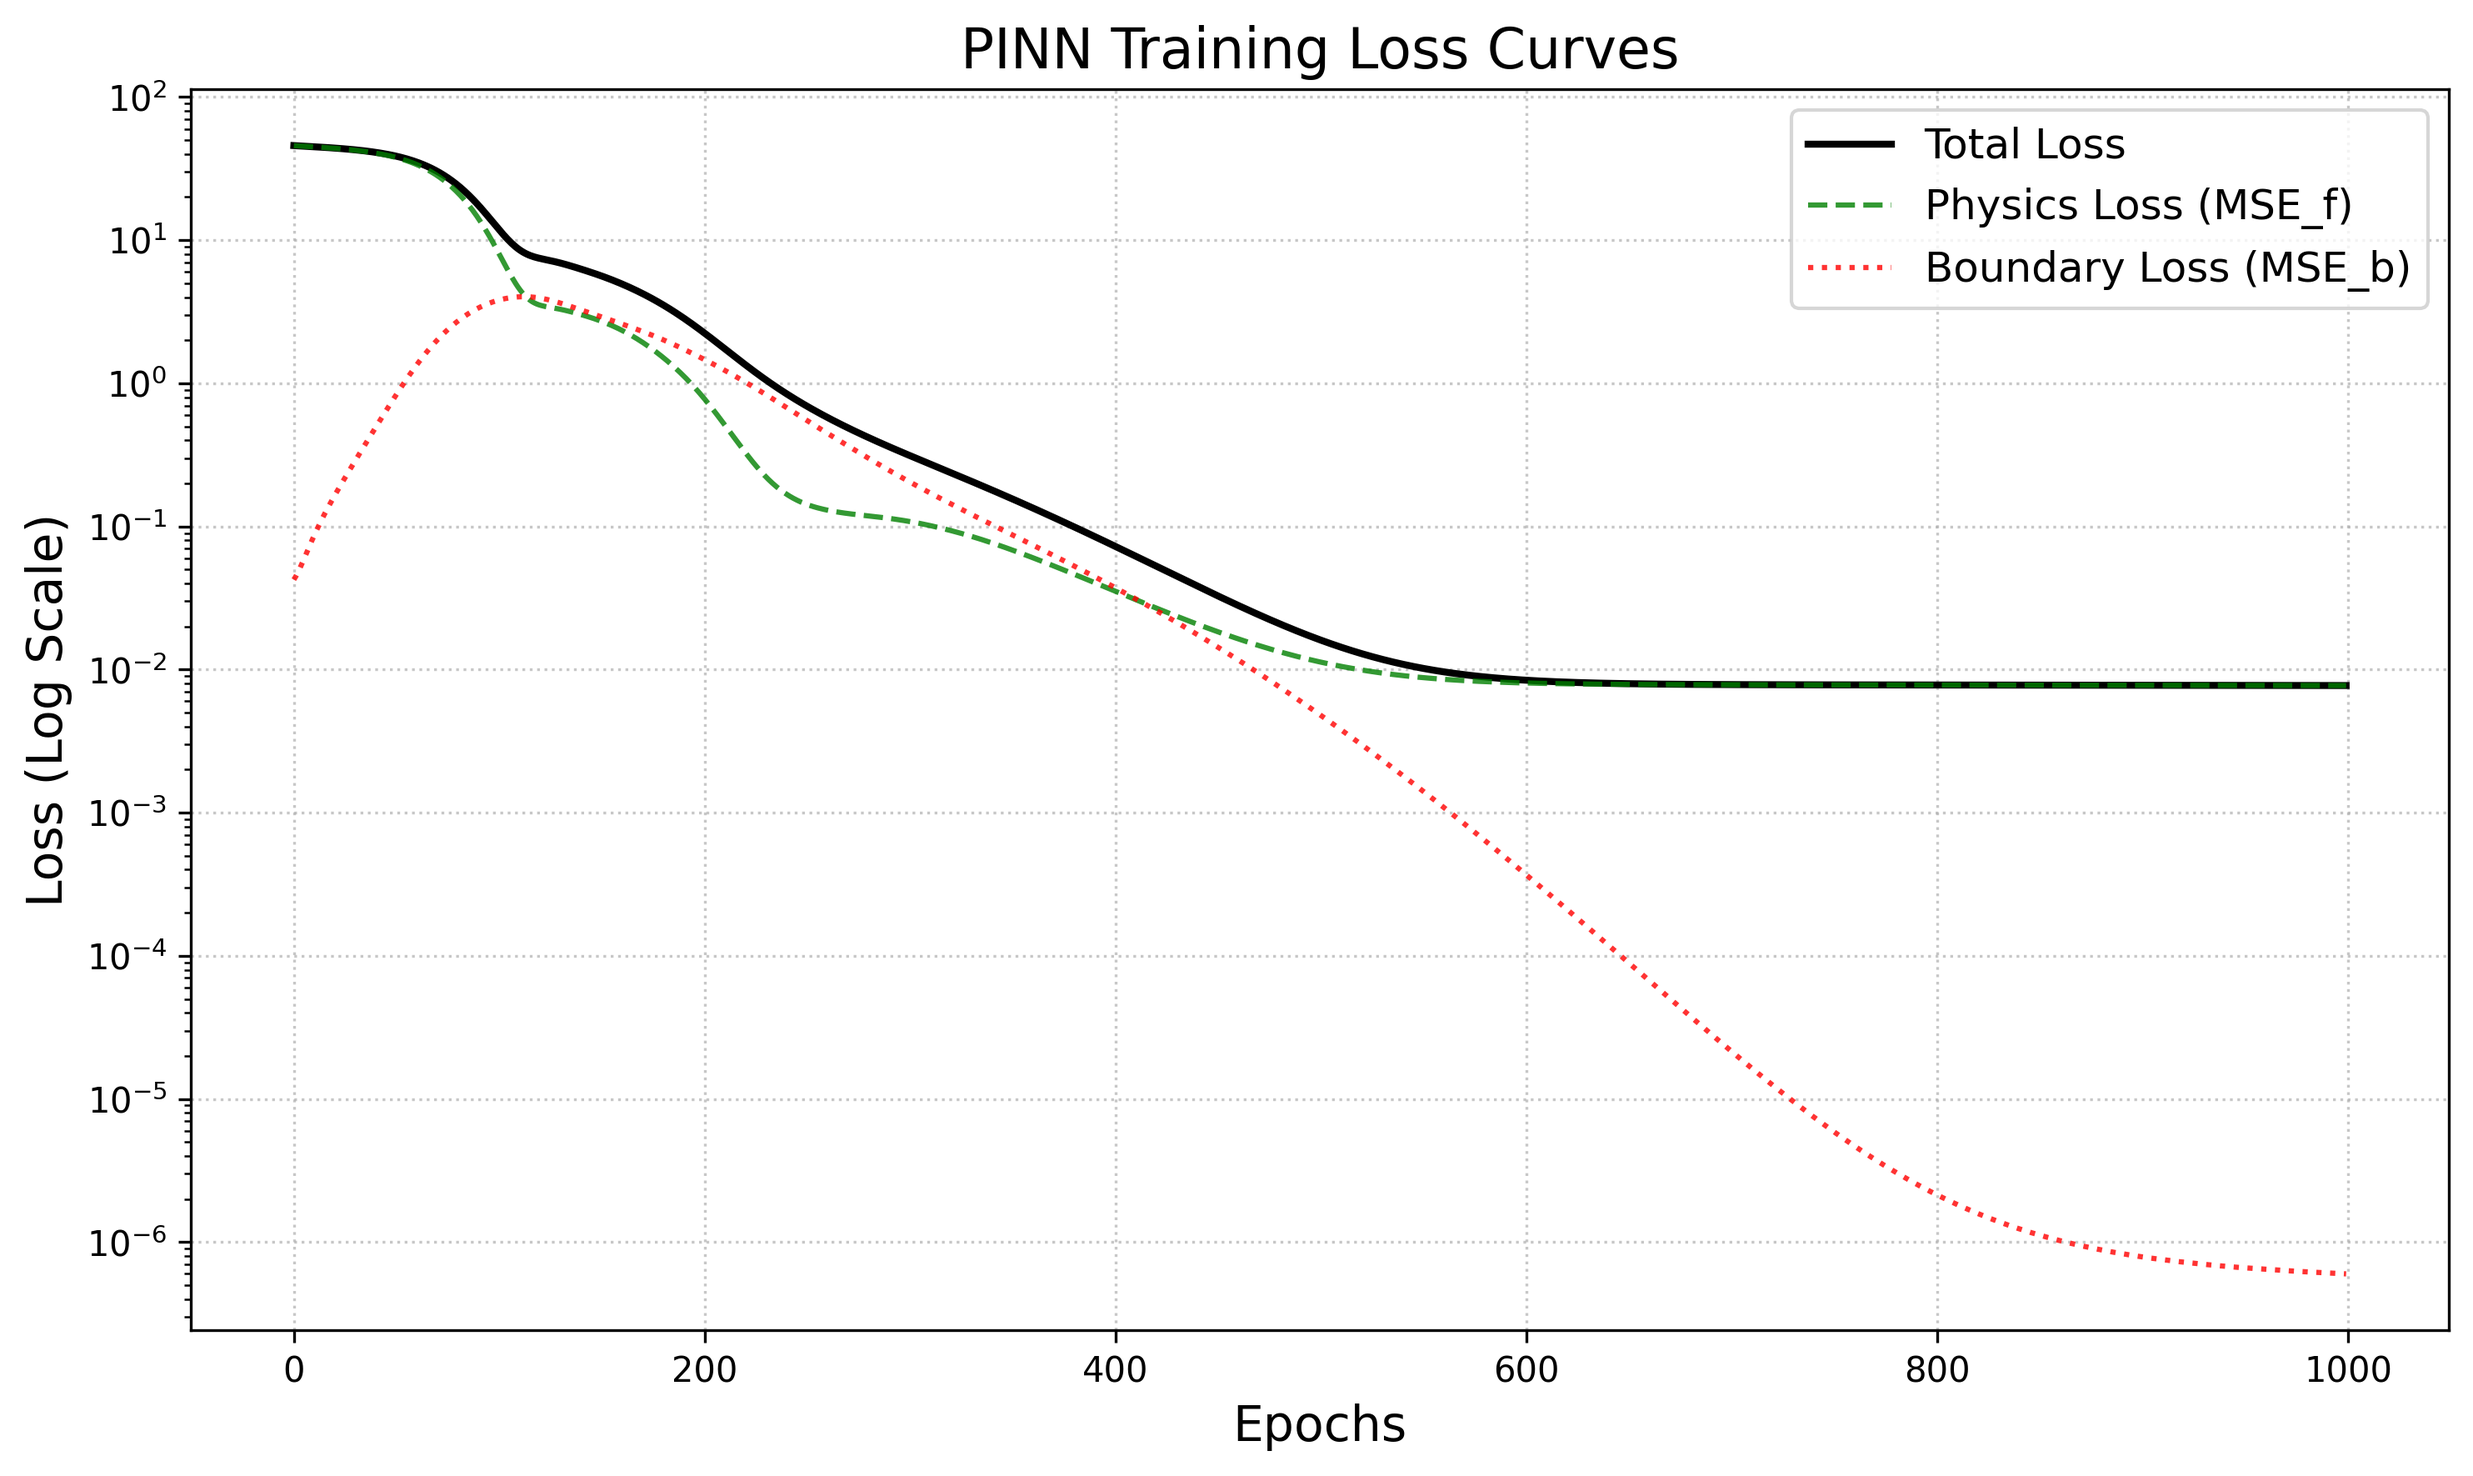
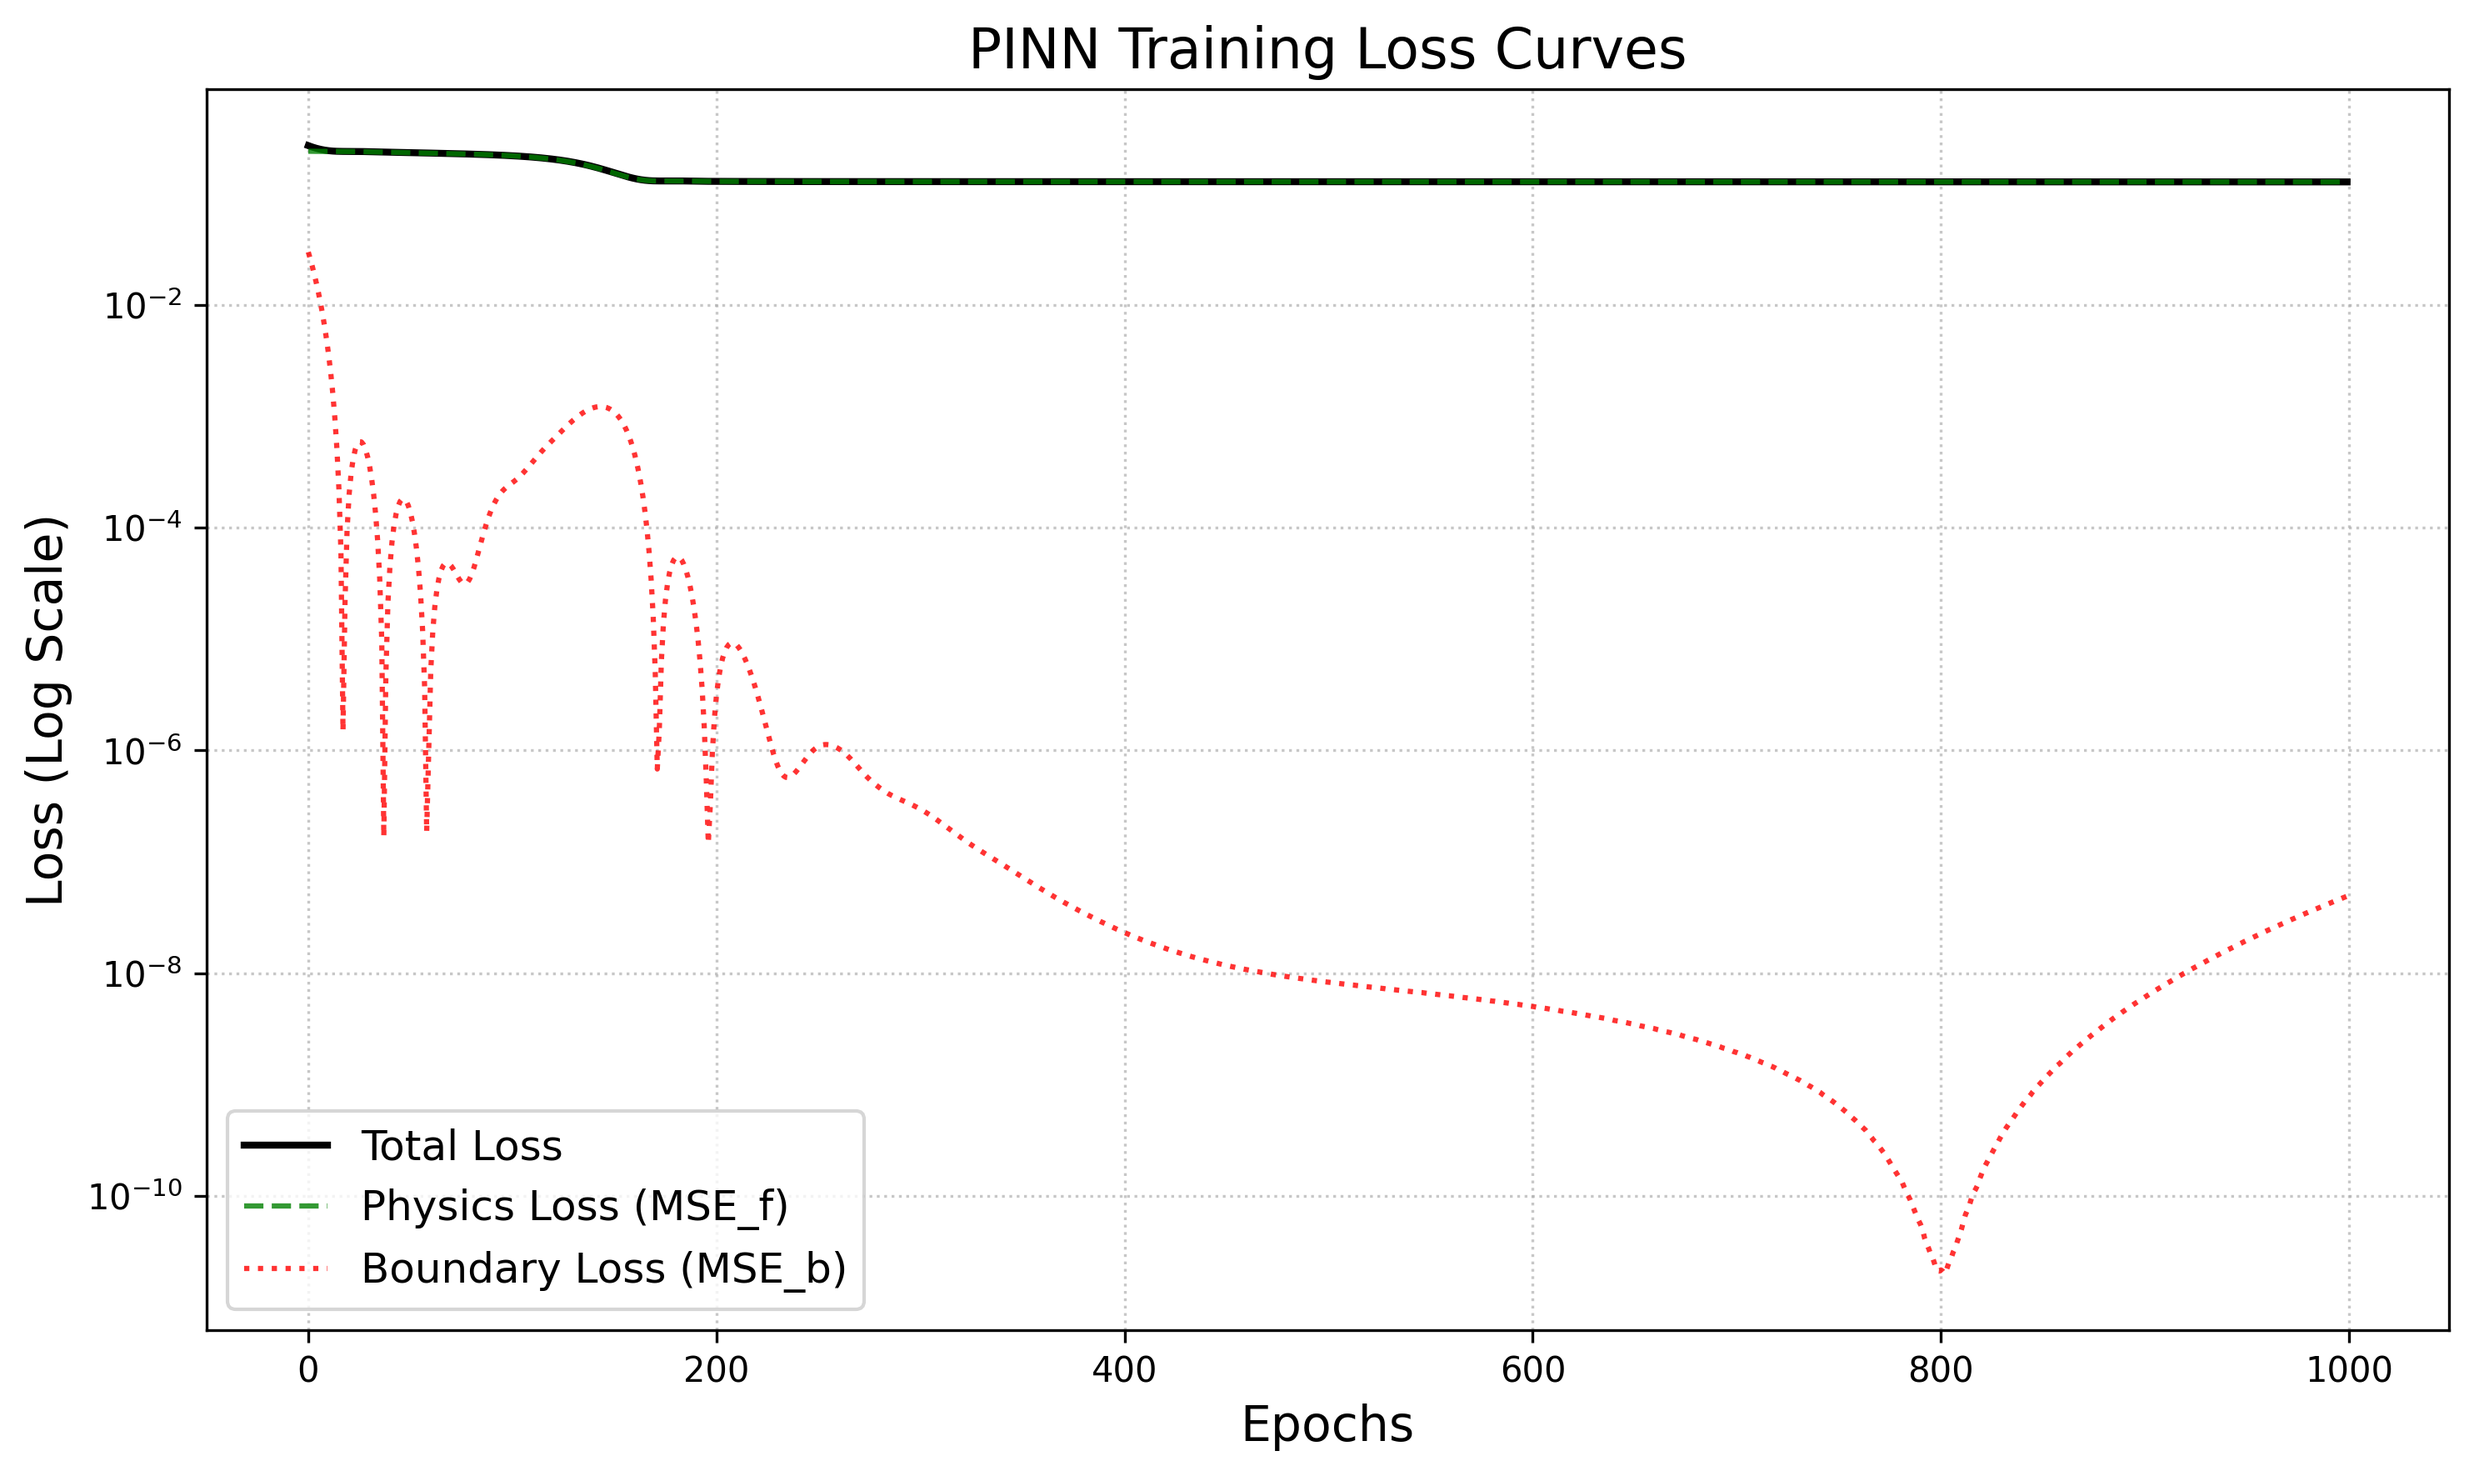
WIP: saving progress to switch machines

diff --git a/experiments/run_poisson.py b/experiments/run_poisson.py
@@ -19,21 +19,26 @@ from src.utils.training import train_pinn, train_bpinn
 # =========================================================================
 
 def run_poisson_experiment():
+    lambd = 0.01 # Diffusion coefficient from paper
+
     # 1. Setup Data and Physics
     # Boundary data (x_b, y_b)
     x_b = torch.tensor([[-1.0], [1.0]], dtype=torch.float32)
-    y_b = torch.tensor([[0.0], [0.0]], dtype=torch.float32)
-    
+    y_b = torch.sin(6 * x_b)**3
+
+   
     # Collocation points (x_f), forcing term measurements (y_f)
-    x_f = torch.linspace(-1, 1, 20).view(-1, 1).requires_grad_(True)
-    y_f = - (torch.pi ** 2) * torch.sin(torch.pi * x_f).detach()
+    x_f = torch.linspace(-0.7, 0.7, 16).view(-1, 1).requires_grad_(True)
+    y_f = lambd * (108 * torch.sin(6 * x_f) * torch.cos(6 * x_f)**2 - 108 * torch.sin(6 * x_f)**3).detach()
     
     # Add noisy data mirroring the standard testing setup
-    y_b = y_b + torch.randn_like(y_b) * 0.1
-    y_f = y_f + torch.randn_like(y_f) * 0.1
+    noise_std = 0.01
+    y_b = y_b + torch.randn_like(y_b) * noise_std
+    y_f = y_f + torch.randn_like(y_f) * noise_std
+   
     
-    sigma_u = 0.1
-    sigma_f = 0.1
+    sigma_u = noise_std
+    sigma_f = noise_std
     
     pde_problem = Poisson1D(x_f, y_f, sigma_f)
     
@@ -71,10 +76,10 @@ def run_poisson_experiment():
         y_f=y_f,
         sigma_u=sigma_u,
         sigma_f=sigma_f,
-        M=100,
-        N=200,
-        L=20,
-        delta_t=0.01
+        M=1000,
+        N=17000,
+        L=50,
+        delta_t=0.1
     )
     
     # =========================================================================
@@ -84,7 +89,7 @@ def run_poisson_experiment():
     print("Generating plots...")
     
     def true_u(x):
-        return np.sin(np.pi * x)
+        return np.sin(6 * x)**3
         
     plot_loss_curves(
         history=history,

diff --git a/src/utils/plotting.py b/src/utils/plotting.py
@@ -22,8 +22,9 @@ def plot_1d_pinn(model, x_u, y_u, x_f, y_f=None, true_solution_func=None, title=
     os.makedirs(os.path.dirname(save_path), exist_ok=True)
     
     # Generate continuous test points over the domain
-    x_min = float(torch.min(x_f))
-    x_max = float(torch.max(x_f))
+    x_min = float(x_f.detach().cpu().min()) 
+    x_max = float(x_f.detach().cpu().max()) 
+    
     margin = (x_max - x_min) * 0.05
     x_test = torch.linspace(x_min - margin, x_max + margin, 200).view(-1, 1)
     
